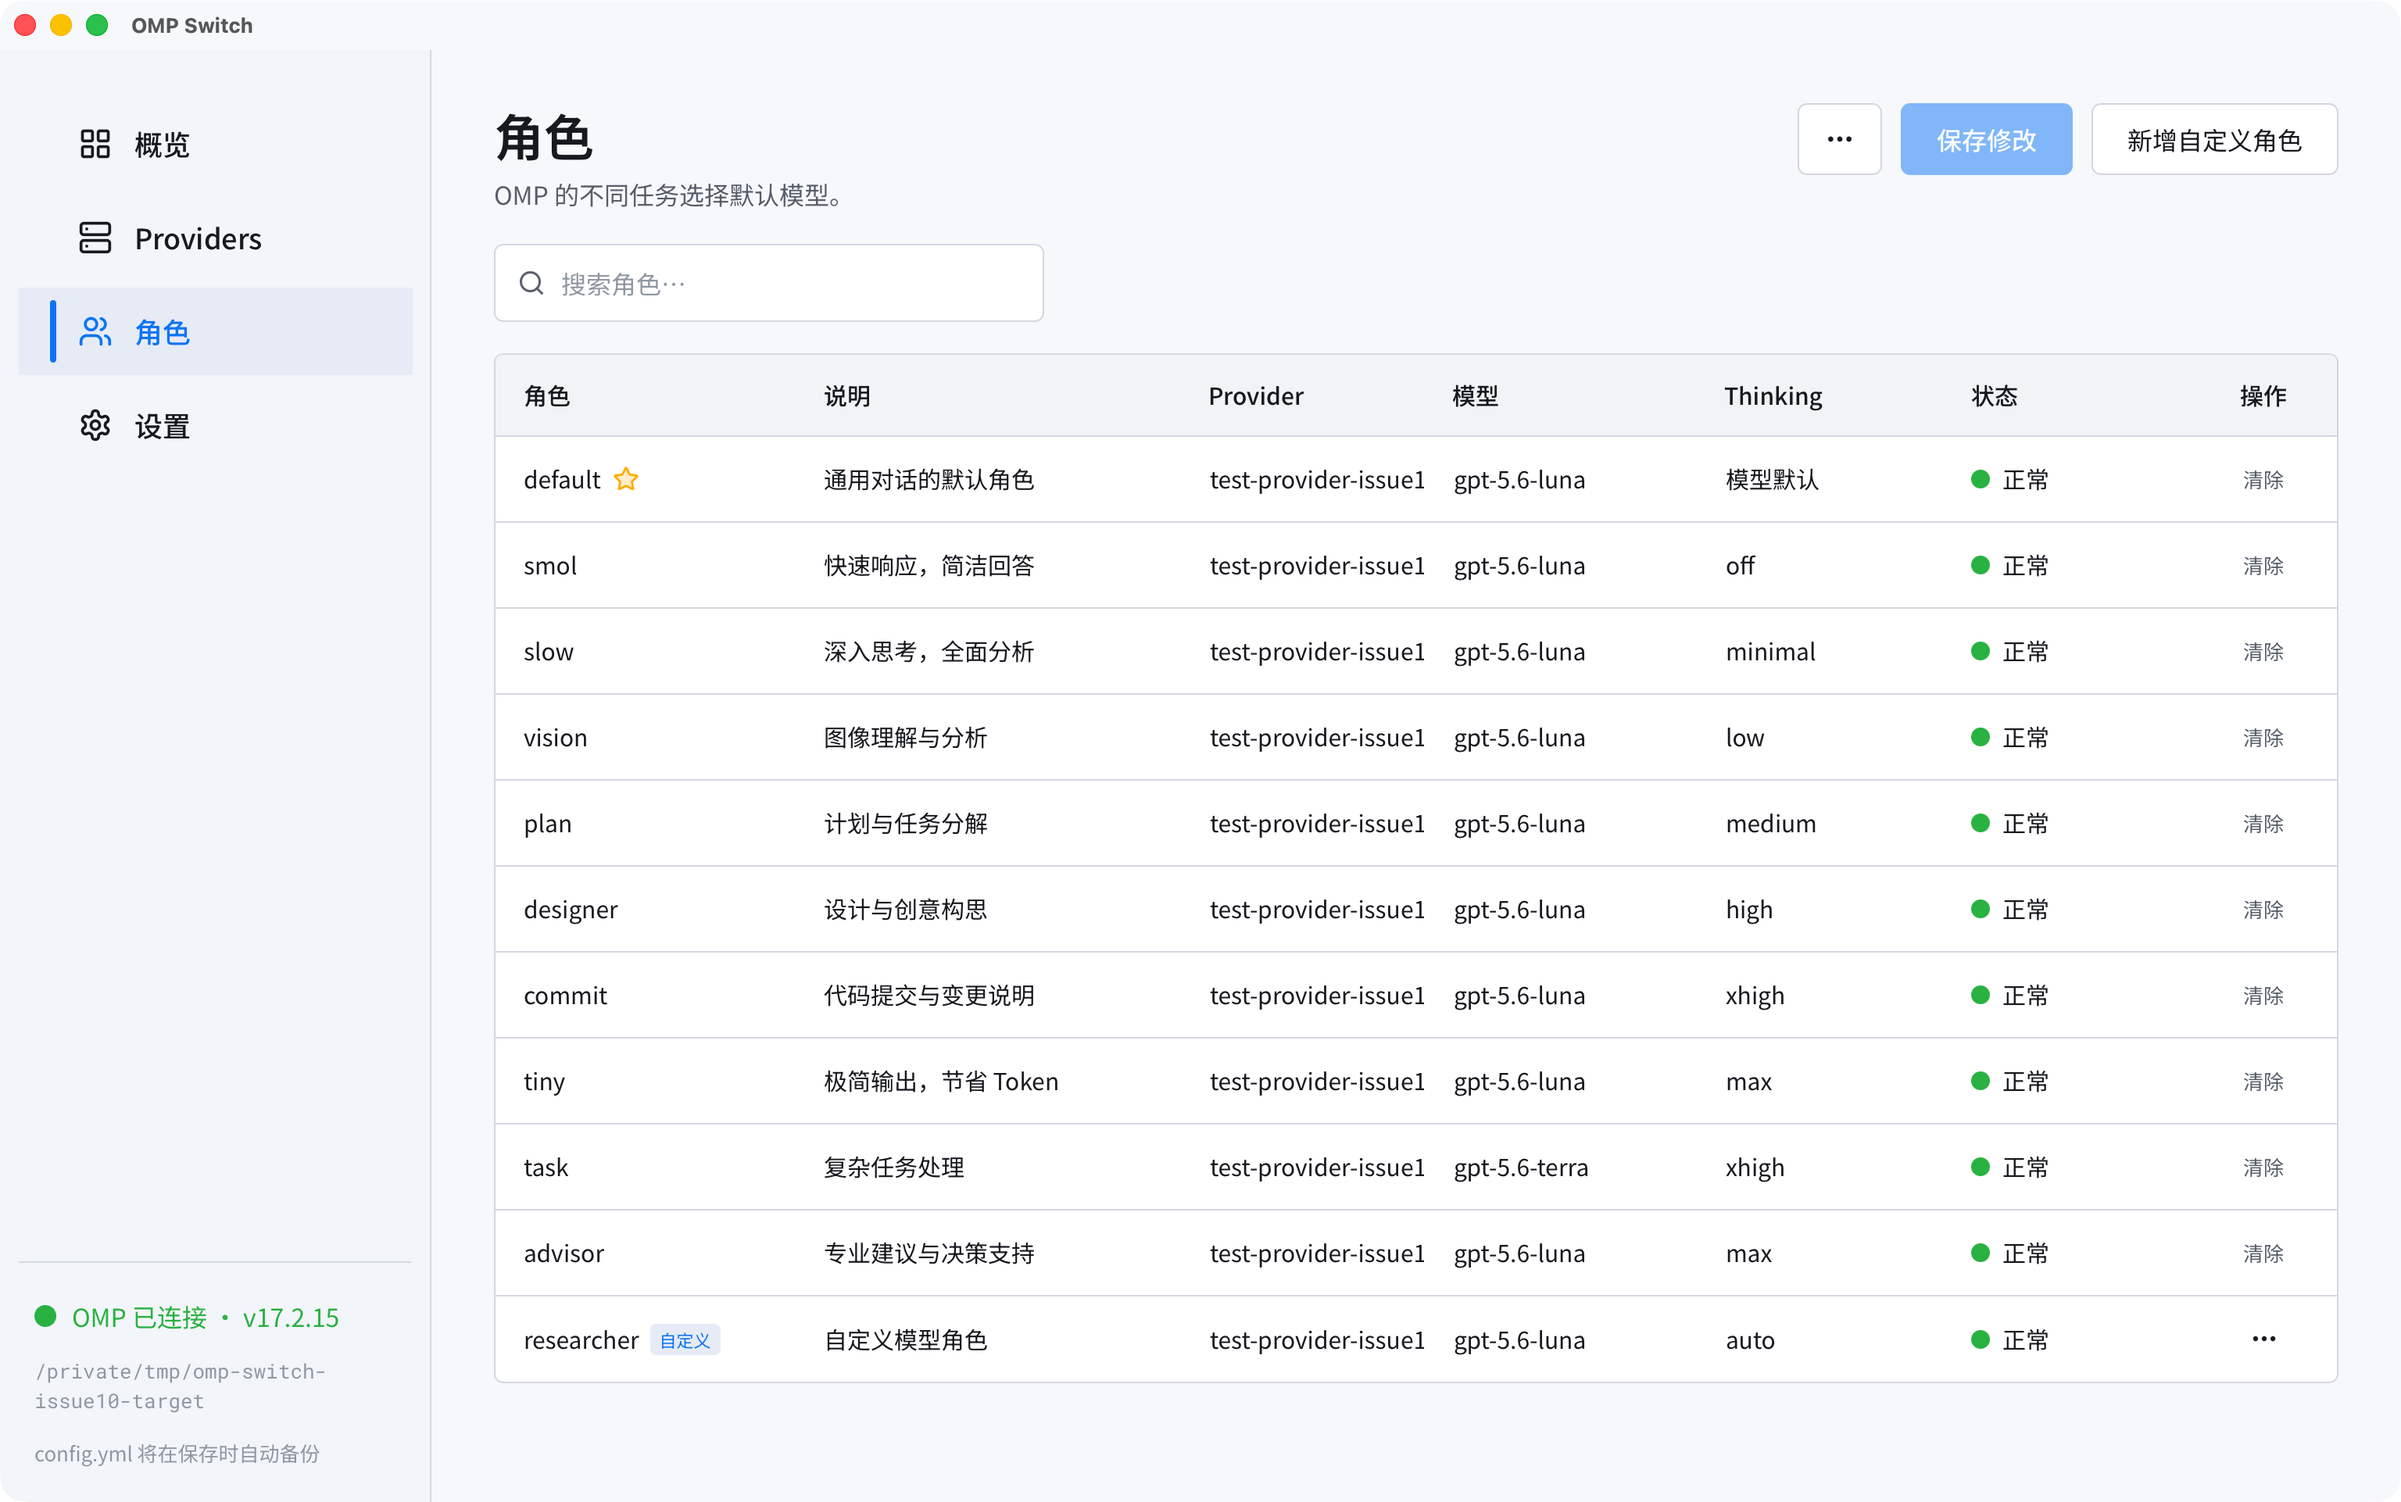
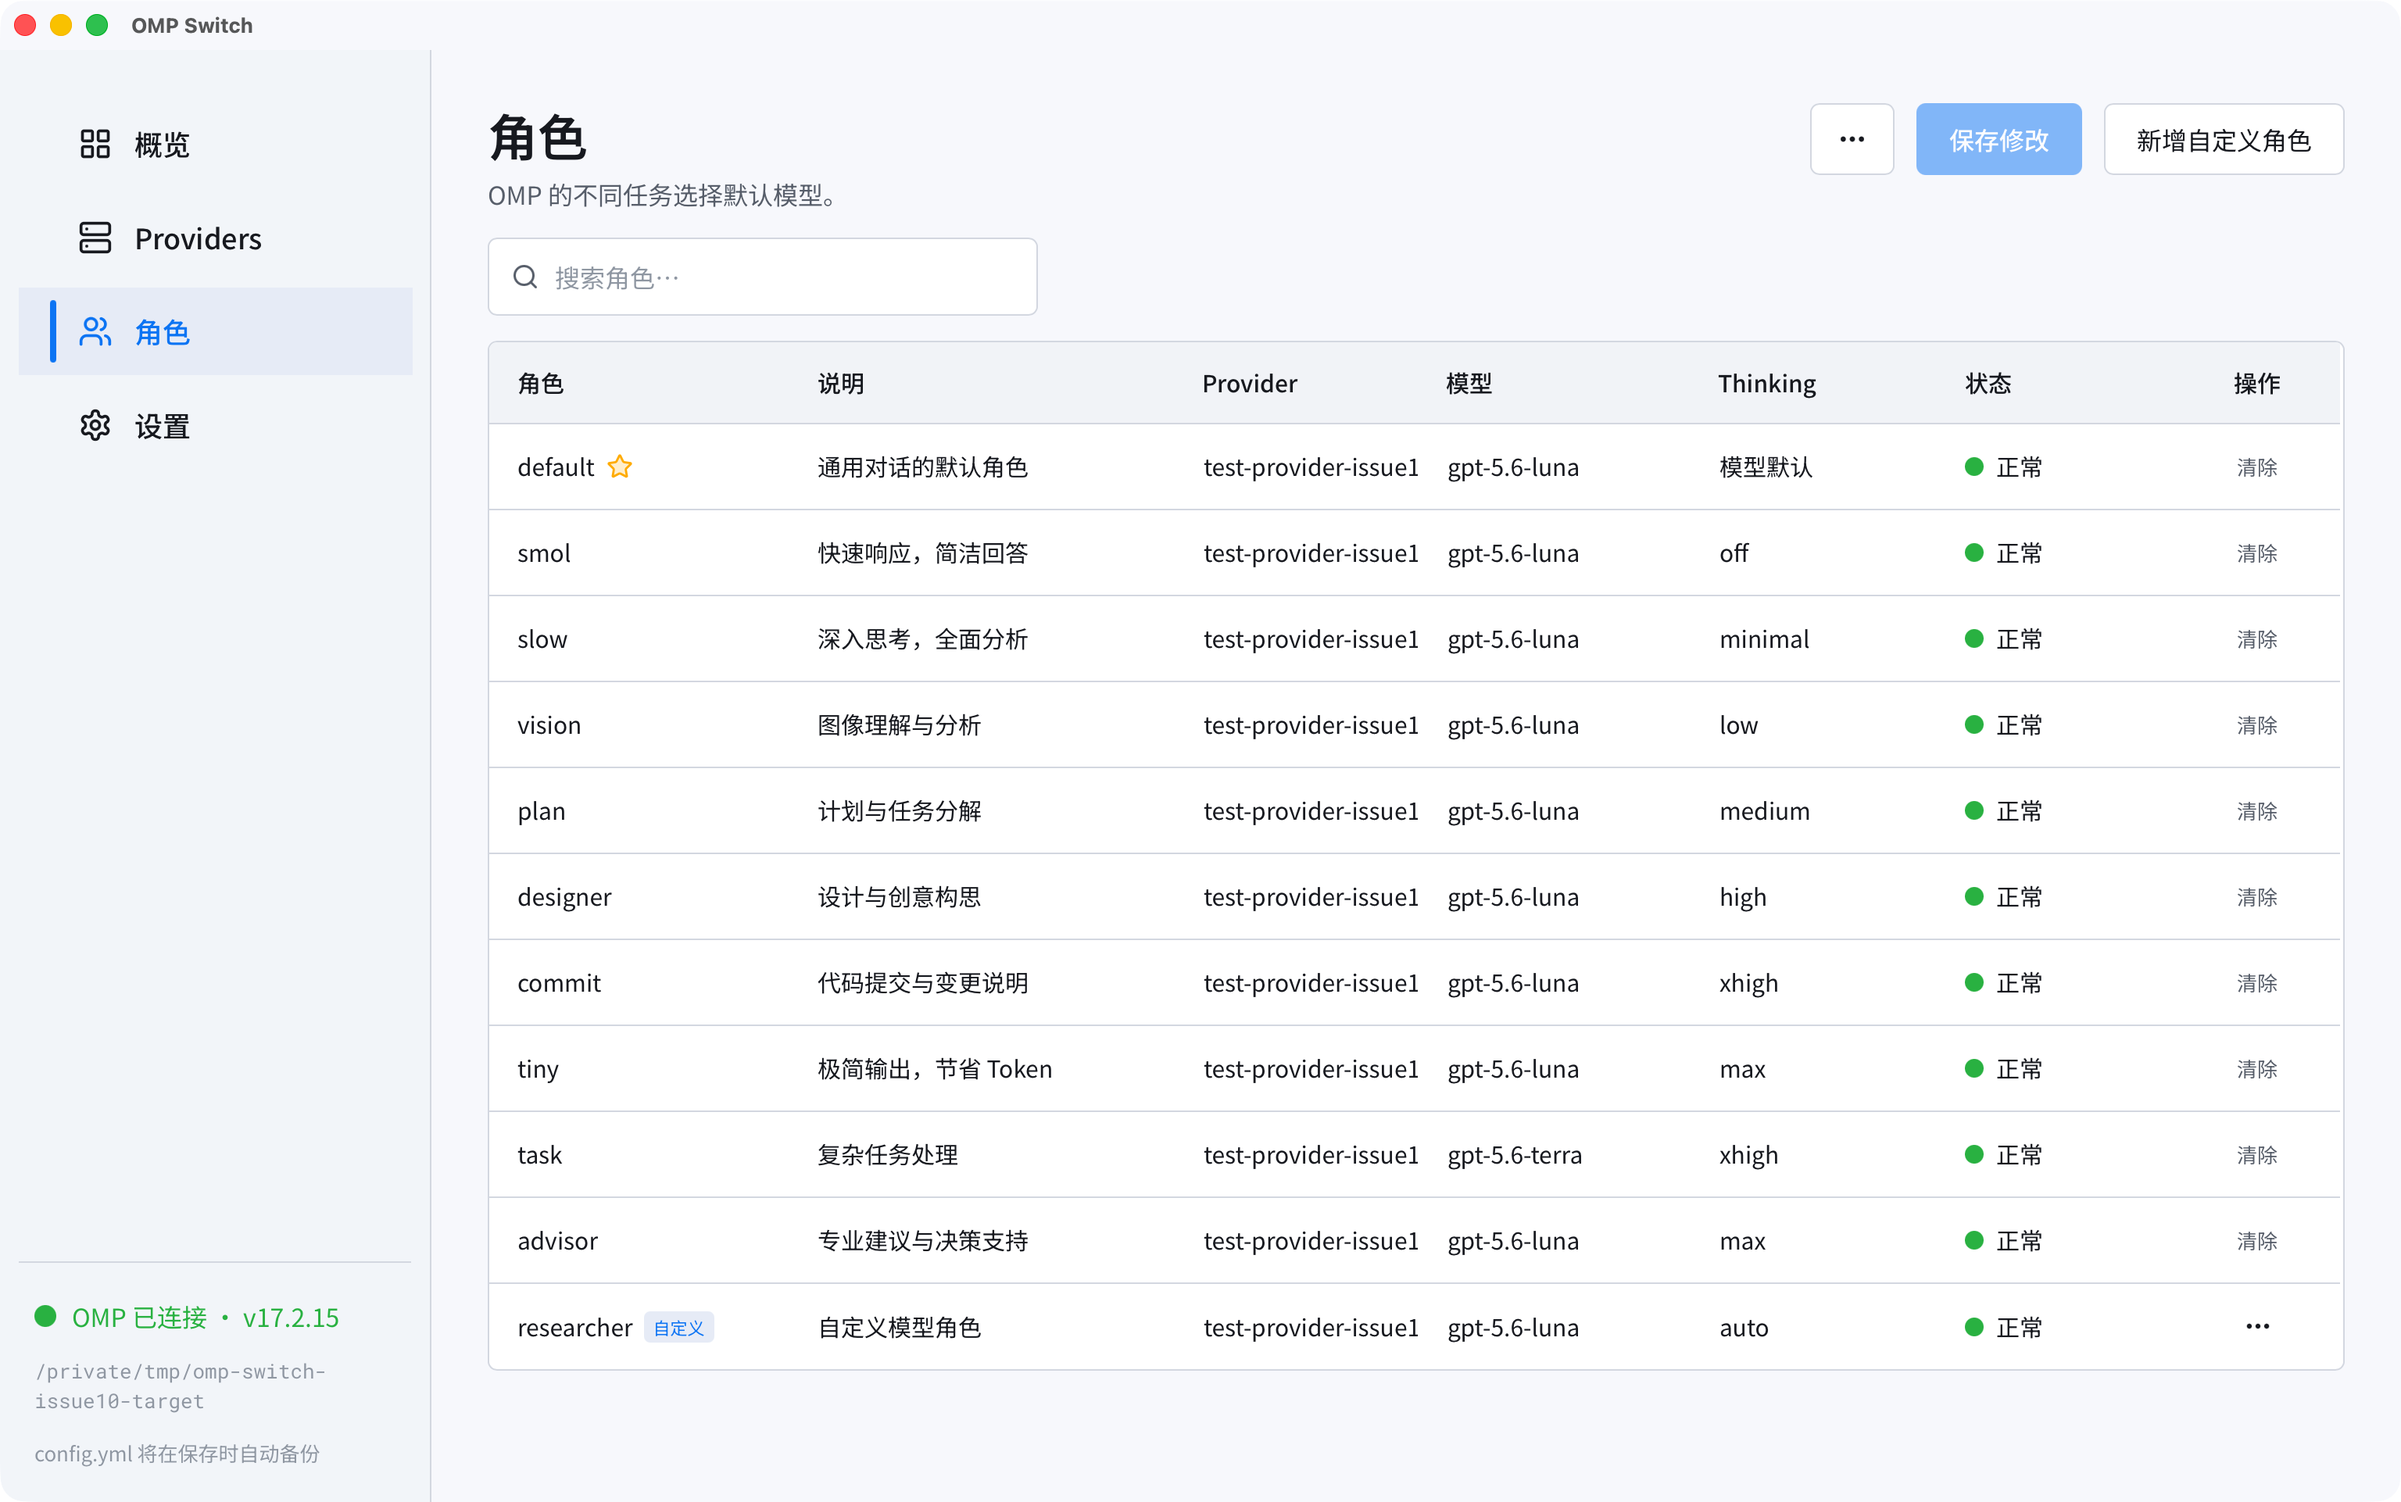
fix: match roles page Pencil spacing

diff --git a/src/styles/app.css b/src/styles/app.css
@@ -24,6 +24,7 @@ a { color: inherit; text-decoration: none; }
 .sidebar-footer code { color: var(--color-text-disabled); font-family: var(--font-mono); font-size: 13px; }
 .sidebar-footer__status { color: var(--color-text-disabled); font-size: 13px; overflow: hidden; text-overflow: ellipsis; white-space: nowrap; }
 .page-content { min-width: 0; overflow: auto; padding: 34px 40px 28px; }
+.page-content--roles { padding-inline: 36px; }
 .placeholder-card { margin-top: 20px; max-width: 760px; color: var(--color-text-secondary); }
 .setup-body { min-height: 100%; height: 100%; overflow: auto; display: flex; align-items: safe center; justify-content: center; padding: 64px 0; }
 .setup-body--extended { padding-block: 0; }
@@ -508,13 +509,13 @@ a { color: inherit; text-decoration: none; }
   .provider-edit-no-auth { margin-left: 0; }
 }
 
-.roles-page { min-width: 0; display: grid; align-content: start; gap: 20px; }
+.roles-page { min-width: 0; display: grid; align-content: start; gap: 16px; }
 .roles-header { min-width: 0; display: flex; align-items: flex-start; justify-content: space-between; gap: 24px; }
-.roles-header-actions { display: flex; flex: 0 0 auto; align-items: center; gap: 12px; }
-.roles-header-actions .app-button { min-height: 46px; padding-inline: 22px; }
+.roles-header-actions { display: flex; flex: 0 0 auto; align-items: center; gap: 14px; }
+.roles-header-actions .app-button { min-height: 46px; padding-inline: 20px; }
 .roles-header-actions .roles-more-button { width: 54px; min-width: 54px; padding: 0; }
-.roles-dirty-status { display: inline-flex; align-items: center; gap: 8px; color: var(--color-warning); font-size: var(--font-size-sm); white-space: nowrap; }
-.roles-dirty-status .status-dot { width: 10px; height: 10px; background: var(--color-warning); }
+.roles-dirty-status { display: inline-flex; align-items: center; gap: 10px; color: var(--color-text-secondary); font-size: 15px; white-space: nowrap; }
+.roles-dirty-status .status-dot { width: 12px; height: 12px; background: var(--color-warning); }
 .roles-search { width: min(352px, 100%); min-height: 50px; }
 .roles-search:focus-within { border-color: var(--color-primary); box-shadow: 0 0 0 3px var(--color-primary-soft); }
 .roles-table-scroll { min-width: 0; height: auto; max-height: min(700px, calc(100vh - 240px)); min-height: 360px; overflow: auto; overscroll-behavior: contain; border: 1px solid var(--color-border); border-radius: var(--radius-md); background: var(--color-bg-surface); }

diff --git a/src/app/MainShell.tsx b/src/app/MainShell.tsx
@@ -14,7 +14,7 @@ const pages = [
   { to: "/settings", label: "设置", icon: Settings },
 ] as const;
 
-export function MainShell({ children, status }: { children: ReactNode; status?: ShellStatus }) {
+export function MainShell({ children, status, contentClassName }: { children: ReactNode; status?: ShellStatus; contentClassName?: string }) {
   const client = useTauriClient();
   const location = useLocation();
   const [detectedStatus, setDetectedStatus] = useState<ShellStatus | null>(null);
@@ -51,7 +51,7 @@ export function MainShell({ children, status }: { children: ReactNode; status?: 
             <span className="sidebar-footer__status">{footer.status}</span>
           </Link>
         </aside>
-        <section className="page-content">{children}</section>
+        <section className={contentClassName ? `page-content ${contentClassName}` : "page-content"}>{children}</section>
       </main>
     </div>
   );

diff --git a/src/app/ModelRolesPage.tsx b/src/app/ModelRolesPage.tsx
@@ -624,7 +624,7 @@ export function ModelRolesPage() {
     ? { ...shellStatus, status: "config.yml 将在保存时自动备份" }
     : shellStatus;
   return (
-    <MainShell status={shell}>
+    <MainShell status={shell} contentClassName="page-content--roles">
       <div className="roles-page" aria-busy={loading}>
         {loading ? <RolesSkeleton /> : error ? (
           <section className="roles-error" role="alert" aria-live="assertive">
